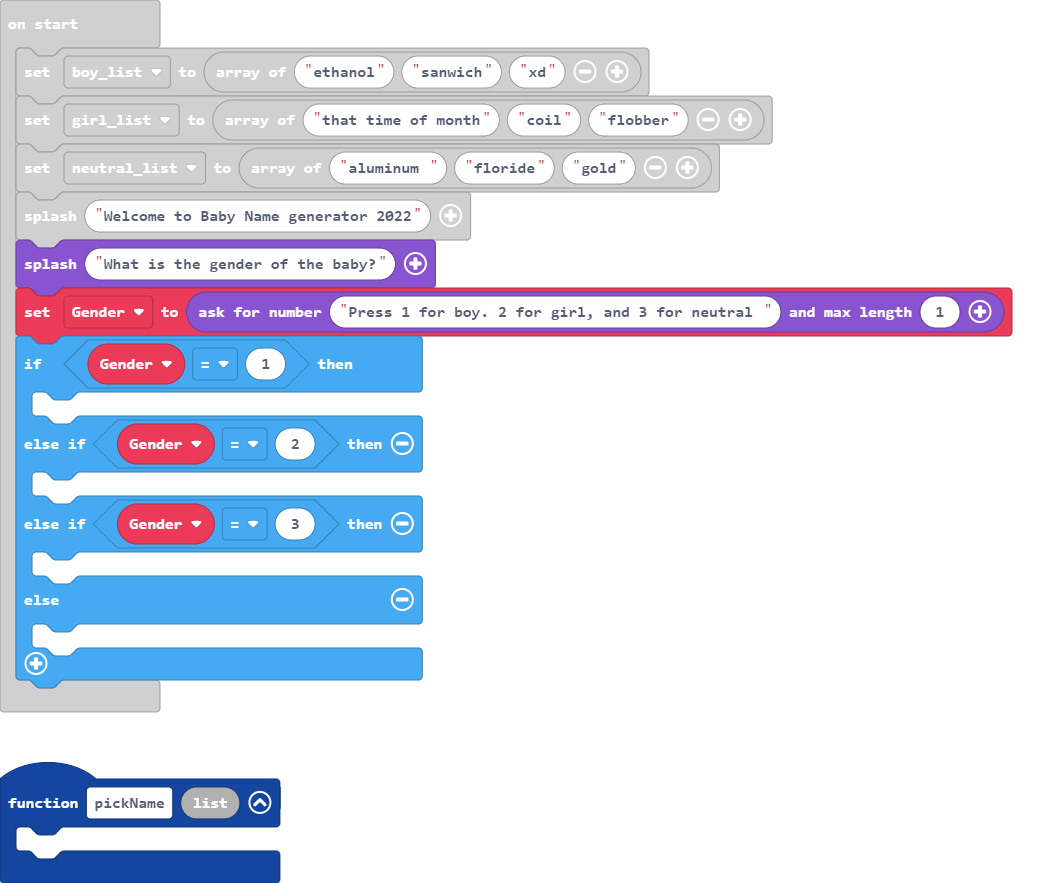
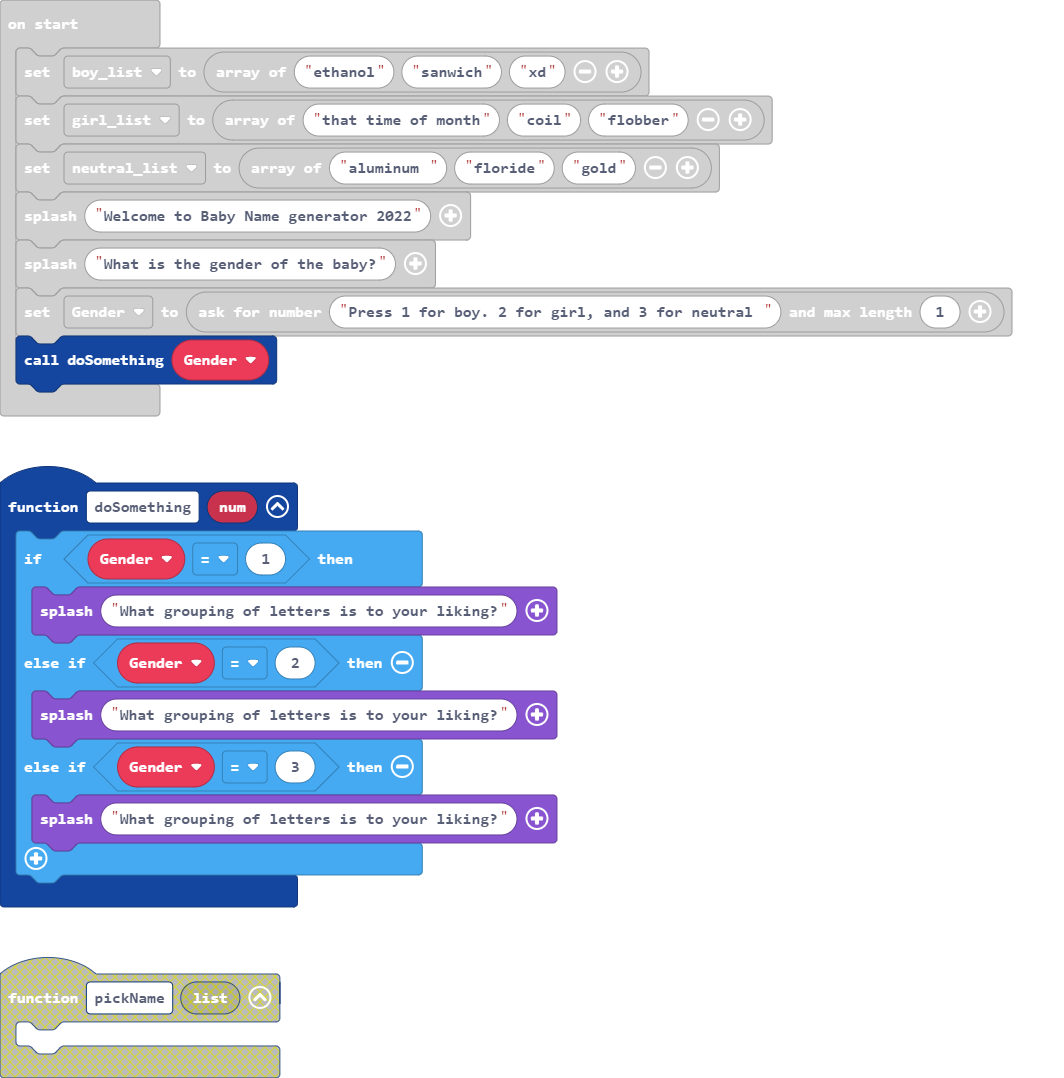
Update main.blocks, main.ts

diff --git a/main.ts b/main.ts
@@ -1,18 +1,17 @@
-function pickName (list: any[]) {
-	
+function doSomething (num: number) {
+    if (Gender == 1) {
+        game.splash("What grouping of letters is to your liking?")
+    } else if (Gender == 2) {
+        game.splash("What grouping of letters is to your liking?")
+    } else if (Gender == 3) {
+        game.splash("What grouping of letters is to your liking?")
+    }
 }
+let Gender = 0
 let boy_list = ["ethanol", "sanwich", "xd"]
 let girl_list = ["that time of month", "coil", "flobber"]
 let neutral_list = ["aluminum ", "floride", "gold"]
 game.splash("Welcome to Baby Name generator 2022")
 game.splash("What is the gender of the baby?")
-let Gender = game.askForNumber("Press 1 for boy. 2 for girl, and 3 for neutral ", 1)
-if (Gender == 1) {
-	
-} else if (Gender == 2) {
-	
-} else if (Gender == 3) {
-	
-} else {
-	
-}
+Gender = game.askForNumber("Press 1 for boy. 2 for girl, and 3 for neutral ", 1)
+doSomething(Gender)
